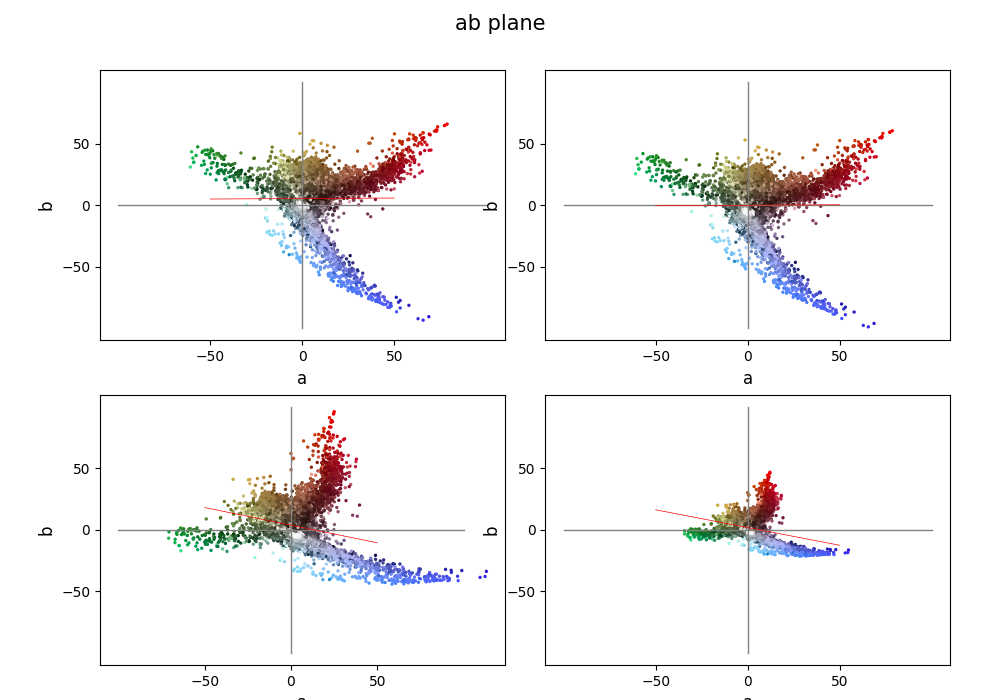
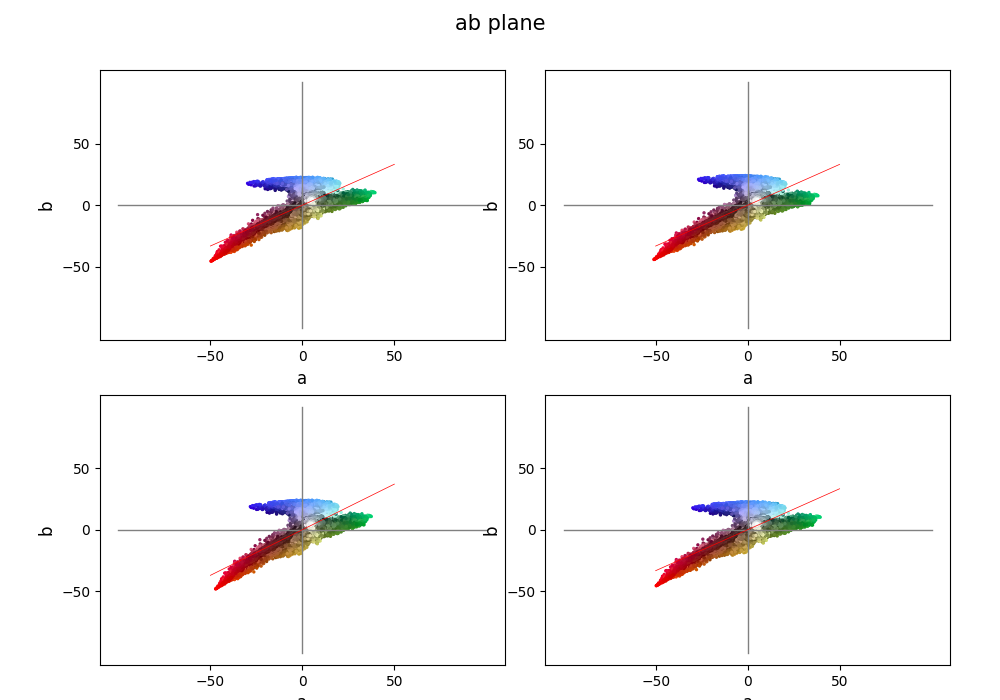
暂存

diff --git a/core/color_pixels.py b/core/color_pixels.py
@@ -44,7 +44,7 @@ class ColorPixels:
         return self._hsv
 
     ## Pixels of the given color space.
-    def pixels(self, color_space="rgb"):
+    def pixels(self, color_space="rgb", all = False):
         image = np.array(self._image)
         if color_space == "rgb":
             if _isGray(image):
@@ -56,17 +56,26 @@ class ColorPixels:
 
         if color_space == "hsv":
             image = rgb2hsv(self._image)
+
+        if all == True:
+            return self._image2pixels(image, s = 1)
+
         return self._image2pixels(image)
 
     #此处下采样
-    def _image2pixels(self, image):
+    def _image2pixels(self, image, s = 0):
         if _isGray(image):
             h, w = image.shape
             step = h * w / self._num_pixels
+            if s == 1:
+                return image.reshape((h * w))[::s]
             return image.reshape((h * w))[::step]
 
         h, w, cs = image.shape
         step = h * w / self._num_pixels
+
+        if s == 1:
+            return image.reshape((-1, cs))[::s]
         return image.reshape((-1, cs))[::step]
 
 
